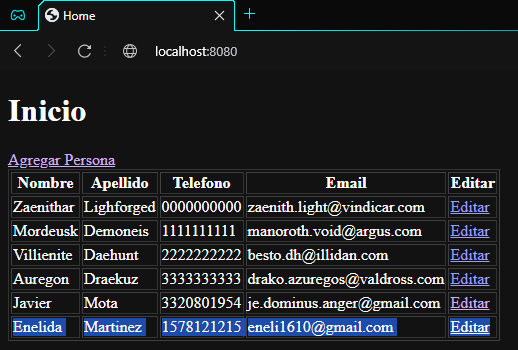
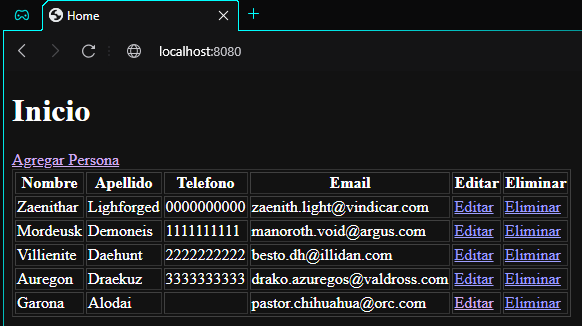
Eliminar registros con thymeleaf usando queryParam y pathVariable

diff --git a/Hola-Spring/src/main/resources/templates/index.html b/Hola-Spring/src/main/resources/templates/index.html
@@ -14,6 +14,7 @@
             <th>Telefono</th>
             <th>Email</th>
             <th>Editar</th>
+            <th>Eliminar</th>
         </tr>
         <tr th:each="persona : ${personas}">
             <td th:text="${persona.nombre}">Mostrar Nombre</td>
@@ -21,6 +22,7 @@
             <td th:text="${persona.telefono}">Mostrar Telefono</td>
             <td th:text="${persona.email}">Mostrar Email</td>
             <td><a th:href="@{/editar/} + ${persona.personaId}">Editar</a></td>
+            <td><a th:href="@{/eliminar/} + ${persona.personaId}">Eliminar</a></td>
         </tr>
     </table>
 </body>

diff --git a/Hola-Spring/src/main/java/com/courses/je/controller/HomeController.java b/Hola-Spring/src/main/java/com/courses/je/controller/HomeController.java
@@ -6,6 +6,7 @@ import lombok.RequiredArgsConstructor;
 import lombok.extern.slf4j.Slf4j;
 import org.springframework.stereotype.Controller;
 import org.springframework.ui.Model;
+import org.springframework.web.bind.annotation.DeleteMapping;
 import org.springframework.web.bind.annotation.GetMapping;
 import org.springframework.web.bind.annotation.PostMapping;
 
@@ -41,5 +42,11 @@ public class HomeController {
         persona = personaService.encontrarPersona(persona);
         model.addAttribute("persona", persona);
         return "modificar";
+    }
+
+    @GetMapping("/eliminar/{personaId}")
+    public String eliminar(Persona persona) {
+        personaService.eliminarPersona(persona);
+        return "redirect:/";
     }
 }

diff --git a/Readme.md b/Readme.md
@@ -1,52 +1,54 @@
 # Seccion 6
-## CRUD Editar
+## CRUD Eliminar
 
 ### Vista - index.html
-- Comenzamos por agregar una nueva columna en la tabla para pdoer editar un registro
-- `<a th:href="@{/editar/} + ${persona.persona_id}">Editar</a>`
-  - `@{/editar/}` es el path de nuestro controlador
-  - `+ ${persona.persona_id}` es el `pathVariable` que señala que `Persona` vamos a edita
-- Por lo tanto al controlador le debe llegar por ejemplo un `/edita/1`
+- Comenzamos por agregar una nueva columna en la tabla para pdoer eliminar un registro
+- `<a th:href="@{/eliminar/} + ${persona.persona_id}">Eliminar</a>`
+  - `@{/eliminar/}` es el path de nuestro controlador
+  - `+ ${persona.persona_id}` es el `pathVariable` que señala que `Persona` vamos a eliminar
+- Por lo tanto al controlador le debe llegar por ejemplo un `/eliminar/1`
 - Podemos observar que el nuevo campo editar ya se encuentra en la tabla
+
+
+
+### Controlador - /eliminar/{personaId}
+- Agregamos una operacion de tipo GET similar a la de editar `/eliminar/{personaId}`
+- Pasamos un objeto de tipo `Persona` como atributo
+- Llamamos  a nuestro servicio con su metodo `eliminarPersona`
+- Dinalmente hacemos un redirect a `/`
+- Vamos a eliinar el ultimo registro de nuestra tabla: 
 
 ![img.png](img.png)
 
-### Controlador - /editar/{personaId}
-- Se agrega un `@GetMapping` con el path `editar/{personaId}`
-- Se agrega como argumento el objeto `Persona`
-- Spring asocia el objeto inyectado persona con el `pathVariable` `personaId` y crea una instancia del objeto con ese id, por lo que no hay que setearlo de nuevo
-- Ahora podemos usar el objeto `Persona` con el `personaId` que se le ha pasado
-- Tambien necesitamos agregar `Model` para compartir los cambios con la siguiente peticion
-- Vamos al servicio a buscar el objeto persona con el Id que nos han pasado
-- Lo agregamos al modelo y retornamos la vista `modificar`
-
-### Vista - modificar
-- **A la hora de que la vista toma el objeto compartido en el modelo, el formulario lee los campos del objeto que se ha retornado (`persona`) y llena cada uno de los campos del formulario con sus valores actuales**
-- Por lop que ya no es necesario hacer ningun cambio para agregar los valores actuales del objeto recuperado al formulario
-- Al acceder a editar un registro, podemos ver que el endpoint ya contiene el id de la persona `5`
-- Tambien que los campos estan llenos con la informacion actual
+- Confirmamos en consola que se hay realizado un delete
 
 ![img_1.png](img_1.png)
 
-- Ahora modificaremos la informacion de la persona
+- Y finalmente observamos nuestra tabla actualizada
 
 ![img_2.png](img_2.png)
 
-- Observamos los cambios deplegados en la pagina de inicio
-- Sin embargo, de momento no esta modificando la informacion de la persona actual, si no que esta creando un registro completamente nuevo
-- Se puede observar que el registro a modificar, sigue en la lista, y los valores modificados se insertaron como registro nuevo
+### Delete con queryParam - Vista
+- Anteriormente utilizamos `pathVariables` para pasar el id de la persona desde el FE con `/eliminar/{personaId}`
+- A continuacion la diferencia en sintaxis:
+  - `pathVarioable`: `th:href="@{/eliminar/} + ${persona.personaId}"`
+    - URL: `/eliminar/1`
+  - `queryParam`: `th:href="@{/eliminar(${persona.personaId})}"`
+    - URL: `/eliminar?personaId=1`
+
+### Delete con queryParam - Controlador
+- Del lado del controlador, a la hora de cambiar a `queryParam`, solo hay que eliminar el `pathVariable` del endpoint
+- Pasando de esto: `/eliminar/{personaId}` a esto: `/eliminar`
+- Spring en automatico setea el id recibido como parametro en el objeto compartido
+- Podemos observar como funciona la eliminacion del ultimo registro
 
 ![img_3.png](img_3.png)
 
-- Esto se debe a que nuestro formulario no se ha especificado el valor del atributo `personaId`
-- Por lo que al presionar el boton, se ejecuta el `POST /guardar` y al no detectar el Id, hibernate lo toma como un objeto nuevo
-- Para solucionar esto hay que agregar un campo oculto que lea el Id si es que existe:
-  - `<input type="hidden" name="personaId" th:field="*{personaId}" /> <br>`
-  - Esto permite que cuando sea un registro nuevo, al no haber Id, se crea el registro
-  - Al igual que se cargan los inputs si existe la informacion, el Id se cargara en el campo oculto y en lugar de crear, modificara el registro existente
-- Ahora ya es posible modificar la informacion de `Javier Mota` sin que se guarde un registro nuevo
-- Confirmamos en la consola que la operacion realizada sea un update
+- Se ejecuta el delte 
+
+![img_4.png](img_4.png)
+
+- Se elimina de la lista 
 
 ![img_5.png](img_5.png)
 
-![img_4.png](img_4.png)
